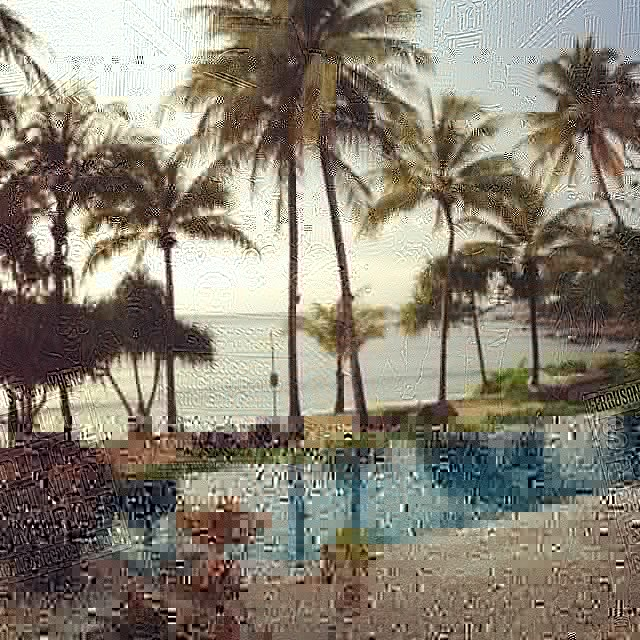
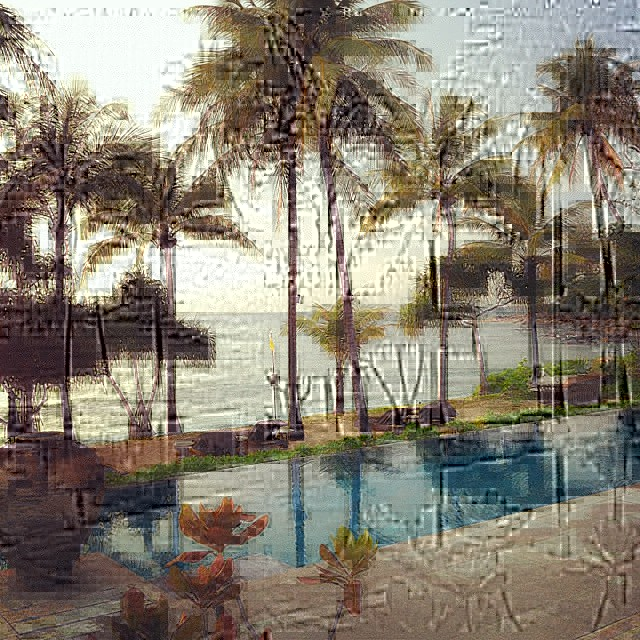
messy, but working code

diff --git a/ImageSwapper.c b/ImageSwapper.c
@@ -43,11 +43,13 @@ int main()
 	long high_range; //low and high representing ranges on each swap loop
 	//long range_array [swaps][2]; //array holding all previous swapped bit ranges
 	int range_array_length = 2*swaps+2;
-	long range_array [range_array_length];
+	long range_array[range_array_length];
 	for(int i=0; i<range_array_length; i++){
 		range_array[i] = 0; 
+		printf("range array at %d set to zero\n", i);
 	}
-	printf("%lu\n", sizeof(range_array));
+	printf("Range Array Length: %d\n", range_array_length);
+	printf("Start size of Range Array: %lu\n", sizeof(range_array));
 	struct Range single_range; 
 
 //read two images into buffer 
@@ -73,10 +75,10 @@ int main()
 //SET LOW/HIGH BASED ON ACTUAL FILE SIZES
 	if(file_size_1>file_size_2){
 		high = file_size_2;
-		low = .005 * file_size_2;
+		low = .05 * file_size_2;
 	} else {
 		high = file_size_1;
-		low = .005 * file_size_1;
+		low = .05 * file_size_1;
 	}
 
 //LOOP CREATES RANGES, POPULATES RANGE ARRAY, 
@@ -88,7 +90,7 @@ int main()
 	int skips; //divisions skipped as a result of small intervals
 	do{
 		printf("length:%d\n", length );
-		for (int i =0; 2*i+1<length; i++){
+		for (int i =0; i<length; i++){
 			int target = 2*i+1; //position in the array currently being calculated
 			int this_skips = 0; //holds number of skips in this iteration
 			if(target<=swaps*2){
@@ -101,10 +103,10 @@ int main()
 					accounting for the number of shifts that have already occured*/
 					for(int j = length+i - this_skips; j>=target; j--){
 						range_array[j+1] = range_array[j];
-						printf("shift: %d\n", j);
+						//printf("shift: %d\n", j);
 					}
 					range_array[target] = new_val; 
-					printf("target: %d new value: %lu\n", target, new_val);
+					//printf("target: %d new value: %lu\n", target, new_val);
 				} else {
 					printf("SKIP:\n  range_array[%d](%lu) - range_array[%d](%lu) = %lu\n", target, range_array[target], target-1, range_array[target-1], range_array[target]-range_array[target-1]);
 					skips++; 
@@ -116,68 +118,40 @@ int main()
 			
 		}
 		//output array values (error checking)
+		length = 0; 
 		for(int i=0; i<range_array_length; i++){
 			if(range_array[i] != 0){
 				printf("A %d: %lu\n", i, range_array[i]);	
+				length++; 
 			}
 		}
 		count++; 
-		length = exp2(count) - skips;
+		//length = exp2(count) - skips;
 		printf("Exponent Count (length w/out skips) %f\n Actual Length: %d\n Skips: %d\n", exp2(count), length, skips);
 	}while (exp2(count-1)<swaps*2+2);
+
 	printf("Exited with length (%d)>swaps*2+2(%d)\n", length, swaps*2+2);
+	printf("Size of Range_array%lu\n", sizeof(range_array) );
 
-	/*for(int i=0; i<range_array_length; i++){
-		printf("B %d: %lu\n", i, range_array[i]);
-	}*/
-
-	/*low_range = random_number(low, high);
-	high_range = random_number(low_range, high);
-	range_array[0][0] = low_range;
-	range_array[0][1] = high_range; 
-
-	for(int i=1; i<swaps; i++){
-		printf("at array position: %d\n", i);
-		low_range = random_number(low, high);
-		single_range = range_maker(range_array, i, low_range, low, high);
-		printf("New Range:\n pos: %d\n low: %lu\n high: %lu\n", single_range.pos, single_range.low, single_range.high);
-		if(single_range.pos == 0){
-			for(int j = i; j>0; j--){
-				range_array[j][0] = range_array[j-1][0];
-				range_array[j][1] = range_array[j-1][1];
-			}
-			range_array[0][0] = single_range.low;
-			range_array[0][1] = single_range.high; 
-		} else if (single_range.pos == i){
-			range_array[i][0] = single_range.low;
-			range_array[i][1] = single_range.high; 
-		} else {
-			for(int c = i; c>single_range.pos; c--){
-				range_array[c][0] = range_array[c-1][0];
-				range_array[c][1] = range_array[c-1][1];
-			}
-			range_array[single_range.pos][0] = single_range.low;
-			range_array[single_range.pos][1] = single_range.high;		
+	char file_name[10];
+	for(int i=1; i<range_array_length-1; i +=2){
+		low_range = range_array[i];
+		high_range = range_array[i+1];
+		for(int j = range_array[i]; j<range_array[i+1]; j++){
+			img_buff[j] = img2_buff[j];
 		}
-		for(int x = 0; x<=i; x++){
-			printf("  %d low, %lu : high, %lu\n", x, range_array[x][0], range_array[x][1]);	
-		}
-	}*/
 
-/*//AND SWAPS VALUES
-	char filename[10];
-	for (int i = 0; i<swaps; i++){
-		printf("  %d low, %lu : high, %lu\n", i, range_array[i][0], range_array[i][1]);
-		sprintf(filename, "new%d.jpg", i);
-		printf("filename: %s\n" ,filename);
-		img3 = fopen(filename, "wb");
-		for(int j=range_array[i][0]; j<range_array[i][1]; j++){
-			img_buff[j] = img2_buff[j]; 
-		}
+		sprintf(file_name, "new%d.jpg", i);
+		img3 = fopen(file_name, "wb");
 		fwrite(img_buff, 1, max_file_size, img3);
 		fclose(img3);
+
+		printf("B %d: %lu - %lu\n", i, range_array[i], range_array[i+1]);
+		printf("range_array last: %lu\n", range_array[range_array_length]);
 	}
-*/		
+
+
+
 
 }
 
